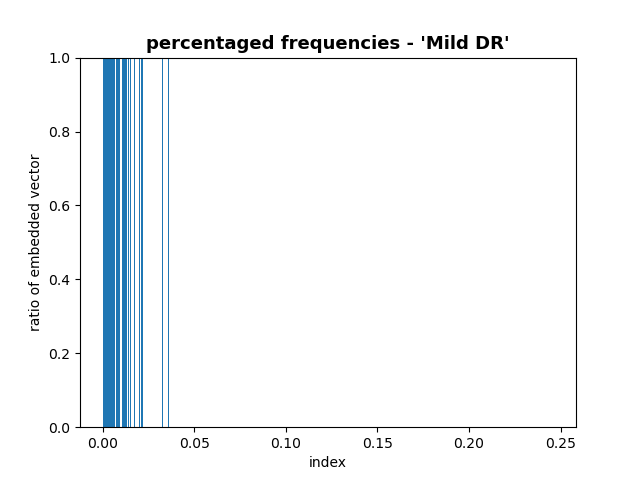
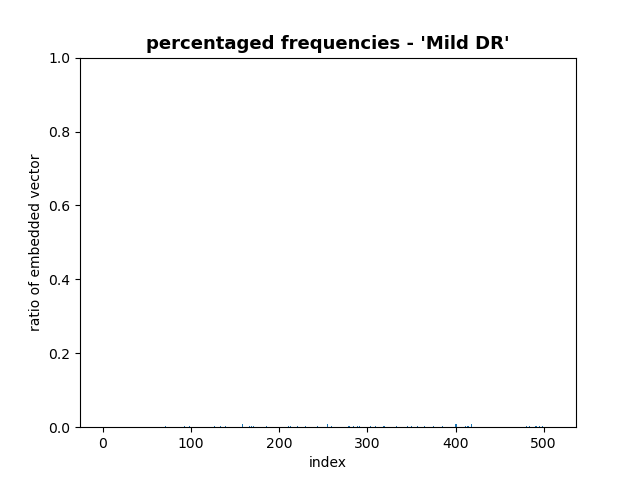
vq_vae2

diff --git a/utils/introspection.py b/utils/introspection.py
@@ -250,9 +250,9 @@ def visualize_latent_space(test_data, img_folder, csv, vq_vae,
 
     encodings = encodings.detach().numpy()
 
-    for metric in tqdm(['euclidean', 'cosine', 'correlation']):
-        for n_neighbors in (2,10,20,50,100, 200):
-            for min_dist in (0.0, 0.1, 0.25, 0.5, 0.8):
+    for metric in tqdm([]): # ['euclidean', 'cosine', 'correlation']):
+        for n_neighbors in [2]:   # ,10,20,50,100, 200):
+            for min_dist in [0.0]:    #, 0.1, 0.25, 0.5, 0.8):
                 try:
                     # U-Map Visualization
                     clusterable_embedding = UMAP(
@@ -312,38 +312,34 @@ def visualize_latent_space(test_data, img_folder, csv, vq_vae,
     """
     Split test data in specific levels and build histograms over these groups.
     """
-    histograms = np.zeros((levels, num_emb), dtype=np.float)
+    histograms = np.zeros((levels, num_emb), dtype=np.float64)
     print("Generate histograms...")
     for j, level_data in tqdm(enumerate(data)):
         level_data = torch.tensor(level_data)
-        divider = level_data.size(0) * size_latent_space   # for normalized histogram
+        bins = np.zeros(num_emb)
         level_data = DataLoader(level_data, batch_size=batch_size)
-
-        if mode == Mode.vq_vae_2:
+        with torch.no_grad():
             for i, d in enumerate(level_data):
                 d = d.permute(0, 3, 1, 2).float().to(device)
-                indices_bottom = vq_vae.encode(d)
-                indices_bottom = indices_bottom.cpu().detach().numpy().astype(np.uint8)
 
-                for index in indices_bottom.ravel():
-                    histograms[j][index] += 1/divider
-        else:
-            with torch.no_grad():
-                for i, d in enumerate(level_data):
-                    d = d.permute(0, 3, 1, 2).float().to(device)
+                if mode == Mode.vq_vae_2:
+                    indices_bottom = vq_vae.encode(d)
+                    indices_bottom = indices_bottom.cpu().detach().numpy().astype(np.uint16)
+                    bins_to_add = np.bincount(indices_bottom.ravel(), minlength=num_emb)
+                    bins = np.add(bins, bins_to_add)
+                else:
                     indices = vq_vae.encode(d)
-                    indices = indices.cpu().detach().numpy().astype(np.int32)
+                    indices = indices.cpu().detach().numpy().astype(np.uint16)
+                    bins_to_add = np.bincount(indices.ravel(), minlength=num_emb)
+                    bins = np.add(bins, bins_to_add)
 
-                    for index in indices.ravel():
-                        histograms[j][index] += 1/divider
-
-                # Sort indices of embedded vectors regarding best order
-                histograms[j] = histograms[j][best_order]
+        # Sort indices of embedded vectors regarding best order
+        histograms[j] = bins[best_order]
 
     hist_intersection = np.amin(histograms, axis=0)
 
     for j, hist in enumerate(histograms):
-        plt.hist(hist, bins=num_emb)
+        plt.hist(hist, bins=np.arange(num_emb), density=True)
         plt.title(f"percentaged frequencies - \'{disease_states[j]}\'",
                   fontsize=13,
                   fontweight='bold'
@@ -356,7 +352,7 @@ def visualize_latent_space(test_data, img_folder, csv, vq_vae,
         plt.pause(2)
         plt.close()
 
-        plt.hist(np.subtract(hist, hist_intersection), bins=num_emb)
+        plt.hist(np.subtract(hist, hist_intersection), bins=np.arange(num_emb), density=True)
         plt.title(f"percentaged frequencies - \'{disease_states[j]}\' - difference",
                   fontsize=13,
                   fontweight='bold'
@@ -372,7 +368,7 @@ def visualize_latent_space(test_data, img_folder, csv, vq_vae,
     # Plot overlap of histograms
     plt.figure(figsize=(12, 12))
     for i, hist in enumerate(histograms):
-        plt.hist(hist, bins=num_emb, alpha=0.5, label=disease_states[i])
+        plt.hist(hist, bins=np.arange(num_emb), density=True, alpha=0.5, label=disease_states[i])
     plt.ylim(0.0, 1.0)
     plt.title("multiple histograms of all disease states",
               fontsize=13,
